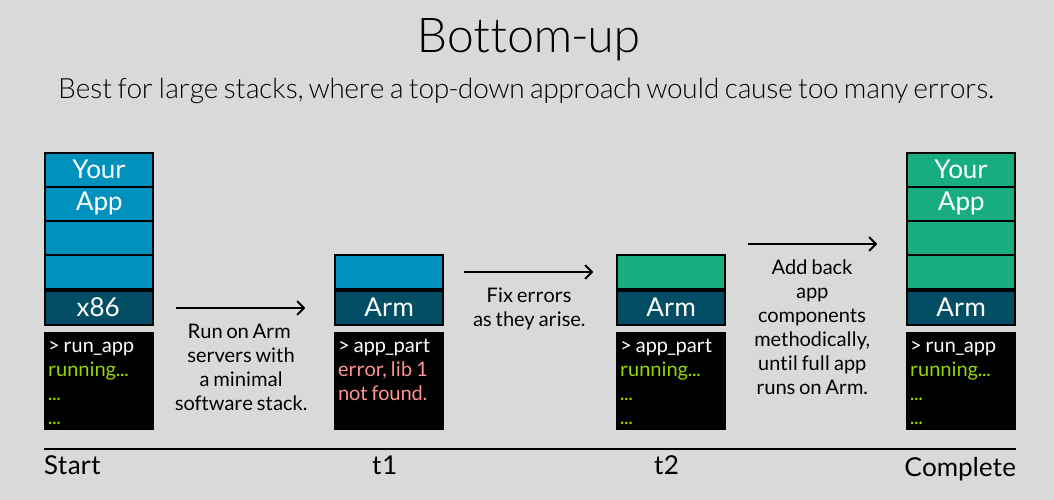
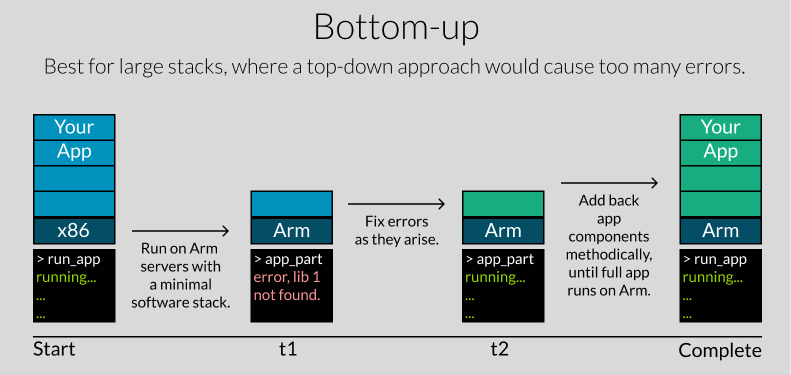
migration journey edits end

diff --git a/themes/arm-design-system-hugo-theme/layouts/migration/migration.html b/themes/arm-design-system-hugo-theme/layouts/migration/migration.html
@@ -9,8 +9,9 @@
 <div class="content-box markdown-content-div" style="width:100%;">
     <h1>Arm Migration Overview</h1>
     {{partial "general-formatting/markdown-content-formatting.html" .Params.description}}
-    <!-- Picture of journey -->
-    
+    <br>
+    <br>    
+    <img src="Arm-migration-overview.png" alt='Image Alt Text: Arm migration overview' title="Arm Migration Overview" class="content-uploaded-image centered" />
 
 </div>
 </div>

diff --git a/assets/css/content.css b/assets/css/content.css
@@ -204,6 +204,9 @@ div.answer label {
     padding-left: 16px;
     padding-right: 16px;
 }
+.normal-horizontal-tabs table{
+    padding-bottom: 8px;
+}
 .normal-horizontal-tabs table thead th {
     background-color: var(--arm-color-footing);
     color: var(--arm-light-grey);

diff --git a/content/migration/_index.md b/content/migration/_index.md
@@ -2,25 +2,9 @@
 title: "How can I migrate my applications to Arm?"
 layout: "migration"       # Easier for dynamic content loading, keep the same
 description: Software developers are embracing the Arm architecture for its superior price performance and energy efficiency across a wide range of applications, including containerized workloads, cloud managed services, and Linux applications. To achieve higher performance and lower cost, you can migrate your self-managed workloads to Arm virtual machines and make sure to select Arm for managed services. This three step migration guide covers the most common scenarios for adopting Arm. It also provides links to additional resources.
-
-csp_hardware:
-  - AWS:
-      Graviton:
-        Arm_CPU: "Cortex-A72"
-        Abbreviation: "A1"
-        Largest_instance: "16 CPUs, 32Gb RAM"
-        Baremetal: true
-        value_over_prev_gen: "-"
-      Graviton2:
-        Arm_CPU: "Neoverse-N1"
-        Abbreviation: "M6G, R6G"
-        Largest_instance: "64 CPUs, 512Gb RAM"
-        Baremetal: true
-        value_over_prev_gen: "600% performance and efficiency increases"
-
 ---
 
-## STEP 1: Learn and explore
+## PREFACE: Learn and explore
 
 Arm Neoverse is a family of processor cores designed for servers and cloud data centers. There are 2 families of processors currently available, Neoverse V-series and Neoverse N-series.
 
@@ -32,12 +16,12 @@ Below is a list of Neoverse CPUs, the architecture versions, and key benefits fo
 
 | CPU         | Architecture version | Key features / benefits |
 | ----------- | -------------------- | --------------------------------------------------------- |
-| Neoverse N1 | Armv8.2-A            | SVE - Flexible vector processing for HPC and AI workloads |
-| Neoverse V1 | Armv8.4-A            | SVE - Flexible vector processing for HPC and AI workloads |
-| Neoverse V2 | Armv9.0-A            | SVE2 and security features such as MTE (Memory Tagging Extension) |
-| Neoverse N2 | Armv9.0-A            | Excellent security with Arm CCA (Confidential Compute Archtecture). |
+| Neoverse-N1 | Armv8.2-A            | LSE - Large System Extensions, improving multi-threaded performance. |
+| Neoverse-V1 | Armv8.4-A            | SVE - Scalable Vector Extension, adding performant vector processing for HPC and AI workloads. |
+| Neoverse-V2 | Armv9.0-A            | CCA and SVE2 - Extends SVE for better DSP and AI performance. |
+| Neoverse-N2 | Armv9.0-A            | SVE2 and CCA - Confidential Compute Architecture adds hardware isolation and more security features. |
 
-### What cloud hardware is availible today?
+### What cloud hardware is available today?
 
 Click on each cloud service provider to see what Arm-based servers they offer with some helpful context.
 
@@ -99,77 +83,173 @@ The Oracle OCI server line offers instances as large as 160 vCPUs and 1024 Gb of
 
 Read [Get started with Servers and Cloud Computing](https://learn.arm.com/learning-paths/servers-and-cloud-computing/intro) to learn more where you can find Arm hardware in the cloud.
 
-## STEP 2: Plan your transition
+## STEP 1: Plan your transition
 
 Newer software is  generally easier to migrate because Arm support continues to improve and  performance optimizations are typically better in newer versions of  software. Interpreted languages and Jit compilers, such as Python, Java, PHP, and Node.js are easiest to migrate. Compiled languages such as C/C++, Go, and Rust are slightly more difficult because they need to be recompiled. The most difficult situations involve a language, runtime, operating  system, or something else which is not available on Arm and would be  difficult to run on Arm.
 
-Make notes about operating  system versions, programming languages, development tools, container  tools, performance analysis tools, deployment tools, and any other  important scripts included in the project. Start with the [Migrating applications to Arm servers](https://learn.arm.com/learning-paths/servers-and-cloud-computing/migration/) Learning Path to start your migration journey. It explains how to set  up a development machine, some migration challenges, and other tips for  different programming languages.
 
-### Survey your software
-Depending on your situation, you may want to try the migration using a bottom-up approach or a top-down approach. The below graphic explains their differences and  advantages.
+### 1.1 Survey your stack
 
-![Top-down porting methodology#center](Top-down.png) 
+Step one in a typical migration journey is understanding your software stack to migrate. Make notes about operating  system versions, programming languages, development tools, container  tools, performance analysis tools, deployment tools, and any other important scripts included in the project. You can reference the Learning Path `Migrating applications to Arm servers` for tips on how to get started - setting up a development machine, common challenges and tips to proceed at pace.
+
+[Migrating applications to Arm servers.](https://learn.arm.com/learning-paths/servers-and-cloud-computing/migration/)
+
+### 1.2 Discover Arm compatibility
+
+Step two is to look through your scripts and Makefiles to see if you spot architecture specific files. Software migration typically falls into 3 categories:
+1. **Automatic:** The Linux package manager installs software from the main repositories without any changes, totally seamless.
+2. **Swap:** Software installed using scripts or binary downloads requires minor changes to strings, such as changing “x86_64” and “amd64” to “arm64” or “aarch64”.
+3. **Challenging:** A few software projects still don't support Arm Linux, some are well known projects like the Edge browser, and the others are smaller projects that haven't added Arm support, yet. Some could be blockers and others may be easy to compile yourself.
+
+You can quickly find what software dependencies are available for Arm on the `Software Ecosystem Dashboard for Arm` - search for your package and find out what versions work on Arm and helpful getting started tips. The dashboard is actively growing, as the place to understand if your software stack will run on Arm servers.
+
+[Software Ecosystem Dashboard for Arm.](https://www.arm.com/developer-hub/ecosystem-dashboard/) 
+
+### 1.3 Resources to help
+
+The below resources are curated to address migration challenges on specific cloud providers. Look through them for additional context.
+- [Porting architecture specific intrinsics](https://learn.arm.com/learning-paths/cross-platform/intrinsics/) - perfect for porting intrinsics from another architecture.
+- [Arm software install guides](https://learn.arm.com/install-guides) - for fast installs of common tools.
+- [Arm Infrastructure Solutions blog](https://community.arm.com/arm-community-blogs/b/infrastructure-solutions-blog/) - an Arm-specific technical blog.
+- [Arm Learning Paths for Servers and Cloud](https://learn.arm.com/learning-paths/servers-and-cloud-computing/) - code tutorials in the Arm server space.
+    - You can search specifically the cloud provider you are using, including [AWS](https://learn.arm.com/learning-paths/servers-and-cloud-computing/?cloud-service-providers-filter=aws/#), [Google Cloud](https://learn.arm.com/learning-paths/servers-and-cloud-computing/?cloud-service-providers-filter=google-cloud/#), [Microsoft Azure](https://learn.arm.com/learning-paths/servers-and-cloud-computing/?cloud-service-providers-filter=microsoft-azure/#), and [Oracle](https://learn.arm.com/learning-paths/servers-and-cloud-computing/?cloud-service-providers-filter=oracle/#).
+    - AWS has additional resources such as the [Porting Advisor for Graviton](https://learn.arm.com/install-guides/porting-advisor/) and [AWS Graviton Technical Guide](https://github.com/aws/aws-graviton-getting-started).
+
+Lately, below are some specific migration for different types of packages:
+
+{{< tabpane-normal >}}
+
+  {{< tab header="Containers">}} 
+
+Which tools are available for building and running containers on Arm servers? 
+
+| Tool | Learning Paths | Other Content (Blogs/Videos) |
+|-----------|----------------|----------------------------------------|
+| Docker | [Learn how to use Docker](https://learn.arm.com/learning-paths/cross-platform/docker/) | [How to build cloud-native applications for multi-architecture infrastructure](https://stackoverflow.blog/2024/02/05/how-to-build-cloud-native-applications-for-multi-architecture-infrastructure/)
+| AWS CodeBuild  | [Build and share Docker images using AWS CodeBuild](https://learn.arm.com/learning-paths/servers-and-cloud-computing/codebuild/) | |
+| Docker Build Cloud | [Build multi-architecture container images with Docker Build Cloud](https://learn.arm.com/learning-paths/cross-platform/docker-build-cloud/) | [Supercharge your Arm builds with Docker Build Cloud: Efficiency meets performance](https://community.arm.com/arm-community-blogs/b/infrastructure-solutions-blog/posts/supercharge-arm-builds-with-docker-build-cloud) |
+| GitHub Actions | [Build multi-architecture container images with GitHub Arm-hosted runners](https://learn.arm.com/learning-paths/cross-platform/github-arm-runners/) |  |
+
+  {{< /tab >}}
+
+  {{< tab header="Programming Languages">}}
+
+Which programming languages work on Arm servers? - Nearly all of them.
+
+| Languages | Learning Paths | Other Content (Blogs/Videos) |
+|-----------|----------------|----------------------------------------|
+| C/C++ | [C/C++ on Arm Neoverse processors](https://learn.arm.com/learning-paths/servers-and-cloud-computing/migration/c-c++/) | [What is new in LLVM 18?](https://community.arm.com/arm-community-blogs/b/tools-software-ides-blog/posts/p1-whats-new-in-llvm-18) |
+| Rust | [Rust Install Guide](https://learn.arm.com/install-guides/rust/) | [Neon Intrinsics in Rust](https://community.arm.com/arm-community-blogs/b/architectures-and-processors-blog/posts/rust-neon-intrinsics) |
+| Java | | [Improving Java performance on Neoverse N1 systems](https://community.arm.com/arm-community-blogs/b/architectures-and-processors-blog/posts/java-performance-on-neoverse-n1) |
+|      | | [Java Vector API on AArch64](https://community.arm.com/arm-community-blogs/b/high-performance-computing-blog/posts/java-vector-api-on-aarch64) |
+|      | | AWS: [Java on Graviton](https://github.com/aws/aws-graviton-getting-started/blob/main/java.md) |
+|      | | Azure: [Optimizing Java Workloads on Azure General Purpose D-series v5 VMs with Microsoft’s Build of OpenJDK](https://techcommunity.microsoft.com/t5/azure-compute-blog/optimizing-java-workloads-on-azure-general-purpose-d-series-v5/ba-p/3827610) |
+|      | | Ampere: [Improving Java performance on OCI Ampere A1 compute instances](https://community.arm.com/arm-community-blogs/b/infrastructure-solutions-blog/posts/performance-of-specjbb2015-on-oci-ampere-a1-compute-instances) |
+| Go | [Go Install Guide](https://learn.arm.com/install-guides/go/) | AWS: [Making your Go workloads up to 20% faster with Go 1.18 and AWS Graviton](https://aws.amazon.com/blogs/compute/making-your-go-workloads-up-to-20-faster-with-go-1-18-and-aws-graviton/)|
+| .NET | [.NET Install Guide](https://learn.arm.com/install-guides/dotnet/) | [Arm64 Performance Improvements in .NET 7](https://devblogs.microsoft.com/dotnet/arm64-performance-improvements-in-dotnet-7/) |
+| Python | | [Python on Arm](https://community.arm.com/arm-community-blogs/b/tools-software-ides-blog/posts/python-on-arm)|
+| PHP | | [Improving performance of PHP for Arm64 and impact on AWS Graviton2 based EC2 instances](https://aws.amazon.com/blogs/compute/improving-performance-of-php-for-arm64-and-impact-on-amazon-ec2-m6g-instances/) |
+
+  {{< /tab >}}
+  {{< tab header="Optimized Libraries">}}
+
+Which key libraries are optimized for Arm servers?
+
+| Library/Framework | Learn More | Blogs |
+|-------------------|------------|-------|
+| x264/x265 | [Run x265 (H.265 codec) on Arm servers](https://learn.arm.com/learning-paths/servers-and-cloud-computing/codec/) | AWS: [Improve video encoding price/performance by up to 36% with Arm Neoverse based Amazon EC2 C6g instances](https://community.arm.com/arm-community-blogs/b/infrastructure-solutions-blog/posts/thirty-six-percent-better-video-encoding-with-aws-graviton2_2d00_based-c6g) |  
+|  |  | AWS: [Reduce H.265 High-Res Encoding Costs by over 80% with AWS Graviton2](https://community.arm.com/arm-community-blogs/b/infrastructure-solutions-blog/posts/reduce-h-265-high-res-encoding-costs-by-over-80-with-aws-graviton2-1207706725) |
+|  |  | Ampere: [Ampere Altra Max Delivers Sustainable High-Resolution H.265 Encoding](https://community.arm.com/arm-community-blogs/b/infrastructure-solutions-blog/posts/ampere-altra-max-delivers-sustainable-high-resolution-h-265-video-encoding-without-compromise) |
+|  |  | Ampere: [OCI Ampere A1 Compute instances can significantly reduce video encoding costs versus modern CPUs](https://community.arm.com/arm-community-blogs/b/infrastructure-solutions-blog/posts/oracle-cloud-infrastructure-arm-based-a1) |
+| ArmPL | [Arm Performance Libraries install guide](https://learn.arm.com/install-guides/armpl/) | [Arm Compiler for Linux and Arm Performance Libraries 24.04](https://community.arm.com/arm-community-blogs/b/high-performance-computing-blog/posts/arm-compiler-for-linux-and-arm-performance-libraries-24-04) |
+| ArmRAL | [Get started with the Arm 5G RAN Acceleration Library (ArmRAL)](https://learn.arm.com/learning-paths/servers-and-cloud-computing/ran/) | [The next chapter for Arm RAN Acceleration Library: Open-sourcing the code base & accelerating adoption](https://community.arm.com/arm-community-blogs/b/infrastructure-solutions-blog/posts/arm-ral-is-now-open-source) |
+| OpenSSL | | |
+| VP9 | | AWS: [Arm-based cloud instances outperform x86 instances by up to 64% on VP9 encoding](https://community.arm.com/arm-community-blogs/b/infrastructure-solutions-blog/posts/arm-outperforms-x86-by-up-to-64-percent-on-vp9) |
+| ISA-L | | |
+| IPSEC-MB | | |
+| AV1 | | |
+| SLEEF | | |
+| AES | | AWS: [AWS Graviton3 delivers leading AES-GCM encryption performance](https://community.arm.com/arm-community-blogs/b/infrastructure-solutions-blog/posts/aes-gcm-optimizations-for-armv8-4-on-neoverse-v1-graviton3)  |
+| Snappy | [Measure performance of compression libraries on Arm servers](https://learn.arm.com/learning-paths/servers-and-cloud-computing/snappy/) | AWS: [Comparing data compression algorithm performance on AWS Graviton2](https://community.arm.com/arm-community-blogs/b/infrastructure-solutions-blog/posts/comparing-data-compression-algorithm-performance-on-aws-graviton2-342166113) |
+| Cloudflare zlib | [Learn how to build and use Cloudflare zlib on Arm servers](https://learn.arm.com/learning-paths/servers-and-cloud-computing/zlib/) | |
+
+  {{< /tab >}}
+
+  {{< tab header="Databases">}} 
+
+Which databases are available on Arm servers?
+
+| Database | Learning Paths | Other Content (Blogs/Videos) |
+|-----------|----------------|----------------------------------------|
+| MySQL | AWS: [Deploy WordPress with MySQL on Elastic Kubernetes Service (EKS)](https://learn.arm.com/learning-paths/servers-and-cloud-computing/eks/) | |
+| MySQL | [Learn how to deploy MySQL](https://learn.arm.com/learning-paths/servers-and-cloud-computing/mysql/) | |
+| MySQL | [Benchmarking MySQL with Sysbench](https://learn.arm.com/learning-paths/servers-and-cloud-computing/mysql_benchmark/) | | 
+| MySQL | [Learn how to Tune MySQL](https://learn.arm.com/learning-paths/servers-and-cloud-computing/mysql_tune/)  | |
+| PostgreSQL | [Learn how to deploy PostgreSQL](https://learn.arm.com/learning-paths/servers-and-cloud-computing/postgresql/) | |
+| Flink | [Benchmark the performance of Flink on Arm servers](https://learn.arm.com/learning-paths/servers-and-cloud-computing/flink/) |
+| Clickhouse | [Measure performance of ClickHouse on Arm servers](https://learn.arm.com/learning-paths/servers-and-cloud-computing/clickhouse/) | AWS: [Improve ClickHouse Performance up to 26% by using AWS Graviton3](https://community.arm.com/arm-community-blogs/b/infrastructure-solutions-blog/posts/improve-clickhouse-performance-up-to-26-by-using-aws-graviton3) |
+| MongoDB | [Test the performance of MongoDB on Arm servers](https://learn.arm.com/learning-paths/servers-and-cloud-computing/mongodb/) | [MongoDB performance on Arm Neoverse based AWS Graviton2 processors](https://community.arm.com/arm-community-blogs/b/infrastructure-solutions-blog/posts/mongodb-performance-on-aws-with-the-arm-graviton2) |
+| Redis | [Deploy Redis on Arm](https://learn.arm.com/learning-paths/servers-and-cloud-computing/redis/) | Alibaba: [Improve Redis performance up to 36% by deploying on Alibaba Cloud Yitian 710 instances](https://community.arm.com/arm-community-blogs/b/infrastructure-solutions-blog/posts/improve-redis-performance-by-deploying-on-alibaba-cloud-yitian-710-instances) |
+| Spark | AWS: [Learn how to deploy Spark on AWS Graviton2](https://learn.arm.com/learning-paths/servers-and-cloud-computing/spark/) | AWS: [Spark on AWS Graviton2 best practices: K-Means clustering case study](https://community.arm.com/arm-community-blogs/b/infrastructure-solutions-blog/posts/optimize-spark-on-aws-graviton2-best-practices-k-means-clustering) |
+| MariaDB | [Deploy MariaDB on Arm servers](https://learn.arm.com/learning-paths/servers-and-cloud-computing/mariadb/) |
+| Elasticsearch/Opensearch |  |
+| Spark+Gluten+Velox |  |
+| Pinecone |  |
+
+  {{< /tab >}}
+
+  {{< tab header="Web applications">}} 
+Which software helps me build web applications on Arm servers?
+| Software | Learning Paths | Other Content (Blogs/Videos) |
+|-----------|----------------|----------------------------------------|
+| Nginx | [Learn how to deploy Nginx](https://learn.arm.com/learning-paths/servers-and-cloud-computing/nginx/) | AWS: [Nginx Performance on AWS Graviton3](https://community.arm.com/arm-community-blogs/b/infrastructure-solutions-blog/posts/nginx-performance-on-graviton-3) |
+| | [Learn how to tune Nginx](https://learn.arm.com/learning-paths/servers-and-cloud-computing/nginx_tune/) |  |
+| Django | [Learn how to deploy a Django application](https://learn.arm.com/learning-paths/servers-and-cloud-computing/django/) |  |
+
+
+  {{< /tab >}}
+
+  {{< tab header="Networking">}} 
+Which networking software works on Arm servers?
+
+| Software | Learning Paths | Other Content (Blogs/Videos) |
+|-----------|----------------|----------------------------------------|
+| Vectorscan | [Install Vectorscan (Hyperscan on Arm) and use it with Snort 3](https://learn.arm.com/learning-paths/servers-and-cloud-computing/vectorscan/) | |
+| DPDK | | [DPDK Tuning Guide](https://developer.arm.com/documentation/109701/1-0/?lang=en) |
+  {{< /tab >}}
+
+{{< /tabpane-normal >}}
 
 
 
 
-![Bottom-up porting methodology#center](Bottom-up.png) 
+## STEP 2: Test, build, and run
 
+Based on your initial research, decide how to proceed with trying your software on Arm. In general, you can take a top-down or bottom-up strategy to migrate to Arm. Select a methodology and use the resources above to build and run your application. 
 
-### Research dependencies
+### 2.1 Top-down methodology
 
-Look through your scripts and Makefiles to see if you spot architecture specific files. 
+![Top-down porting methodology](Top-down.png) 
 
-Migration typically falls into 3 categories:
-1. The Linux package manager installs software from the main repositories without any changes, totally seamless.
-2. Software installed using scripts or binary downloads requires minor changes to strings, such as changing “x86_64” and “amd64” to “arm64” or “aarch64”.
-3. A few software projects still don't support Arm Linux, some are well known projects like the Edge browser, and the others are smaller projects that haven't added Arm support, yet. Some could be blockers and others may be easy to compile yourself.
+Top-down porting involves moving your full software stack onto an Arm machine and trying to build and run it straightaway. You will almost certainly face errors, which you can then address one at a time until your full app runs on Arm. This methodology is great for simpler stacks, where pulling it apart would take more time than fixing errors iteratively. 
 
-The [Software Ecosystem Dashboard for Arm](https://www.arm.com/developer-hub/ecosystem-dashboard/) is a resource to identify if your software dependencies are available for Arm. 
+### 2.2 Bottom-up methodology
 
-Use the Ecosystem Dashboard to find software and understand if everything you need runs on Arm. If you don't find software listed, please raise an issue in the [GitHub project](https://github.com/ArmDeveloperEcosystem/ecosystem-dashboard-for-arm/) or submit a pull request. 
+![Bottom-up porting methodology](Bottom-up.png) 
 
-### Migration helpers
+Bottom-up porting is more systematic in nature. Here you will break apart your software stack, starting with the foundations of your app to get those running on an Arm server first. Then add back one or two software packages at a time, and recompile then run the simple app to ensure it works on Arm. If errors arise, fix them or replace the incompatible package with an Arm compatible version. Continue building back your stack until it is fully formed on an Arm server. 
 
-If you face specific issues with porting software you can try [Porting Advisor for Graviton](https://learn.arm.com/install-guides/porting-advisor/), a source code analysis tool which identifies incompatibilities.
+This methodology is sensible for large stacks, where running the whole app on Arm immediately would cause too many errors to effectively work through.
 
-If your code uses intrinsics from another architecture, you can use the libraries covered in [Porting architecture specific intrinsics](https://learn.arm.com/learning-paths/cross-platform/intrinsics/)
+## STEP 3: Optimize your app
 
-There are additional resources which may help you find answers to your migration questions:
+If you've reached this step, congratulations! Your application is running on Arm servers. The next action is to ensure it is running optimally. 
 
-- [All Arm Learning Paths for Servers and Cloud](https://learn.arm.com/learning-paths/servers-and-cloud-computing/) 
-    - [AWS Learning Paths](https://learn.arm.com/learning-paths/servers-and-cloud-computing/?cloud-service-providers-filter=aws/#)
-    - [Google Cloud Learning Paths](https://learn.arm.com/learning-paths/servers-and-cloud-computing/?cloud-service-providers-filter=google-cloud/#)
-    - [Microsoft Azure Learning Paths](https://learn.arm.com/learning-paths/servers-and-cloud-computing/?cloud-service-providers-filter=microsoft-azure/#)
-    - [Oracle Learning Paths](https://learn.arm.com/learning-paths/servers-and-cloud-computing/?cloud-service-providers-filter=oracle/#)
-- [Infrastructure Solutions blog](https://community.arm.com/arm-community-blogs/b/infrastructure-solutions-blog/)
-- [Arm software install guides](https://learn.arm.com/install-guides)
-- [AWS Graviton Technical Guide](https://github.com/aws/aws-graviton-getting-started) contains a wealth of information. 
+### 3.1 Measure performance
 
-Additional migration resources:
- - [Programming Languages](/migration/languages/)
- - [Optimized Libraries](/migration/libraries/)
- - [Containers](/migration/containers/)
- - [Databases](/migration/databases/)
- - [Web applications](/migration/web/)
- - [Networking](/migration/networking/)
+Once the application is running you can measure performance. This can be as simple as timing an application or may involve using performance analysis tools.
 
-
-## Build and run
-
-Based on your initial research, decide how to proceed with trying your software on Arm. 
-
-Use the resources above to build and run your application on Arm. 
-
-Make sure to watch for any test tools or saved test results so you can plan for them on Arm. 
-
-## STEP 3: Test and Optimize
-
-### Measure performance
-
-Once the application is running you can measure performance. This can be as simple as timing an application or may involve using performance analysis tools 
-
-Additional performance analysis and benchmarking resources:
+You may have some performance analysis methodologies you already follow. Below are some performance analysis tips and methodologies specific to Arm-based servers:
 - [Learn the Arm Neoverse N1 performance analysis methodology](https://learn.arm.com/learning-paths/servers-and-cloud-computing/top-down-n1/)
 - [Profiling for Neoverse with Streamline CLI Tools](https://learn.arm.com/learning-paths/servers-and-cloud-computing/profiling-for-neoverse/)
 - [Learn how to optimize an application with BOLT](https://learn.arm.com/learning-paths/servers-and-cloud-computing/bolt/)
@@ -177,18 +257,19 @@ Additional performance analysis and benchmarking resources:
 - [NVIDIA Grace CPU Benchmarking Guide](https://nvidia.github.io/grace-cpu-benchmarking-guide/index.html)
 - [Learn about Large System Extensions (LSE)](https://learn.arm.com/learning-paths/servers-and-cloud-computing/lse/)
 
+### 3.2 Ask for help
 
-Your goal is to understand if the performance you see will translate into the expected price performance advantages. If you are unsure or need additional help you can submit an issue on GitHub. 
+Your goal is to understand if the performance you see will translate into the expected price performance advantages. If you are unsure or need additional help you can ask the Arm developer community for help. Join the [Arm Developer Program](https://www.arm.com/resources/developer-program) for free and talk directly to Arm Experts on our Discord channel today.
 
-### Deploy
+### DELIVER: Deploy to customers
 
 Once the price performance gains are confirmed, you can plan for a larger deployment. 
 
-This may involve a variety of steps:
-- Experimenting with different virtual machine sizes or instance types to find the best fit for your application
-- Adding some Arm notes to your Kubernetes cluster and running a subset of workloads on Arm
-- Directing some of your web traffic to an Arm version of the application 
-- Creating a complete version of your application in a dev environment for additional testing
+It is largely outside the scope of this writeup to give specific advice on deployment, here are some concepts to keep in mind:
+- Experiment with different virtual machine sizes or instance types to find the best fit for your application.
+- Add some Arm nodes to your Kubernetes cluster and run a subset of workloads on Arm.
+- Direct some of your web traffic to an Arm version of the application.
+- Create a complete version of your application in a dev environment for additional testing.
 
 Make sure to research the details needed for these tasks by checking any places you use infrastructure as code or other places you store details about virtual machine types and sizes, as well as parameters for managed services.
 
@@ -196,6 +277,4 @@ You can also check [Works on Arm](https://www.arm.com/markets/computing-infrastr
 
 ## Summary
 
-The 3 step process combined with the available resources help you migrate applications to Arm.
-
-
+With this 3 step process and the list of provided resources, you should be well positioned to migrate your applications to Arm. Happy porting!